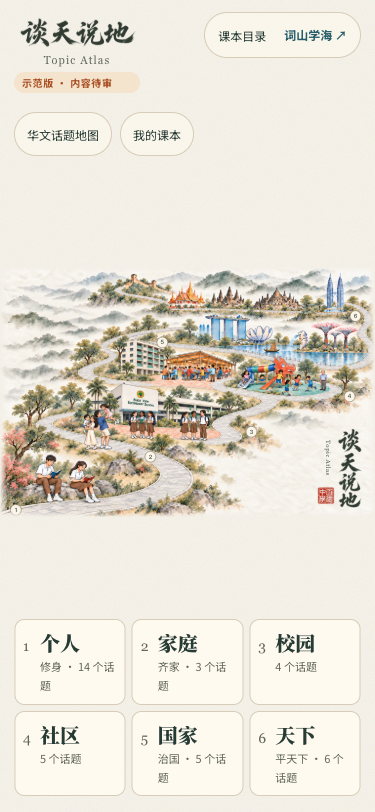
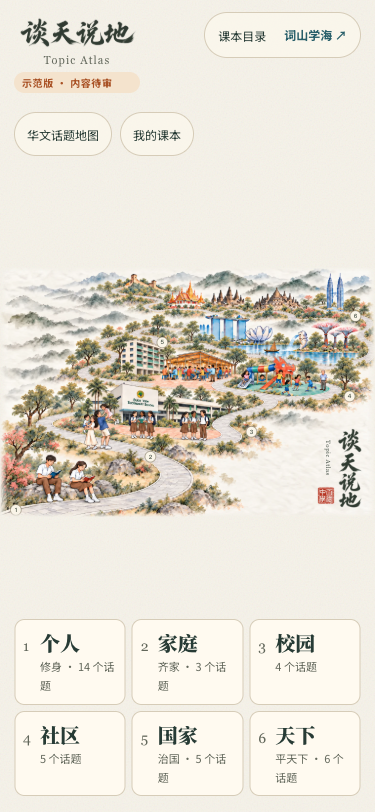
Soften background trail into natural winding curves

Changed region(s): [[0.1467, 0.3387, 0.9973, 0.585], [0.4107, 0.4618, 0.44, 0.4926]]

diff --git a/js/app.js b/js/app.js
@@ -64,7 +64,7 @@ function atlasScene(r,i){
 }
 function atlasMap(){
   return '<div class="atlas-stage"><div class="mapbox atlas-map"><svg viewBox="0 0 1536 1024" role="group" aria-label="话题地图">'+
-   '<image href="assets/atlas/watercolor-map-v40.webp" width="1536" height="1024" aria-hidden="true"/>'+
+   '<image href="assets/atlas/watercolor-map-v41.webp" width="1536" height="1024" aria-hidden="true"/>'+
    SCHOOL_IDENTITY+REGIONS.map(atlasScene).join("")+ATLAS_BRANDING+'</svg></div></div>'+
    '<nav class="atlas-regions" aria-label="话题地图">'+REGIONS.map(function(r,i){
     return '<button data-reg="'+r.id+'" class="atlas-region'+(regionMine(r.id)?' mine':'')+'"><span class="atlas-index" aria-hidden="true">'+(i+1)+'</span><span><b>'+atlasName(r)+'</b><span class="atlas-meta">'+(r.motto?esc(r.motto)+' · ':'')+countR(r.id)+' 个话题</span></span>'+(regionMine(r.id)?'<span class="atlas-mine">我的课本</span>':'')+'</button>';

diff --git a/docs/20261030_Codex_winding-path_handoff.md b/docs/20261030_Codex_winding-path_handoff.md
@@ -1,0 +1,14 @@
+# Natural background trail
+
+Updated October 30, 2026 by HOD/MTL Mdm Chun Kai Xin
+
+Owner approved v40 and requested a more natural winding path in the background, particularly the straight stretches around the ancient landmarks.
+
+Built-in imagegen edits v40. The far trail in front of the Thai temple, Angkor Wat and Borobudur should meander around small uneven terraces. The long middle-distance walkway should use shallow S-curves. Preserve a continuous route, diminishing path width with distance, local ground materials and all approved scenes, people and reader expressions.
+
+Exact prompt:
+
+> Precise localized landscape-path edit of approved watercolor atlas, same 1536x1024. User asks for more natural winding path in BACKGROUND, especially the too-straight stretches around ancient relics. Edit ONLY distant trail geometry in upper third and middle-distance connecting walkway. Replace long ruler-straight horizontal strip in front of Thai temple, Angkor Wat and Borobudur (roughly x650-1310 y165-200) with an organically meandering narrow trail that gently bends forward and back around uneven small landscape terraces, varies elevation and width subtly, partly disappears into wispy mist and reappears. Soften the long straight diagonal walkway behind HDB/hawker and before Marina Bay (roughly x560-1270 y280-365) into relaxed shallow S-curves responding to landscape. Keep connected route from foreground through school/community/nation/world to Great Wall, no branching, no doubled parallel roads or geometric straight causeways. Preserve far trail tapering with distance, plausible local paving and water edges. Keep landmark bases architecturally plausible and buildings perfectly upright and in their existing positions; curves go around structures, no distorted temple architecture. Sparse irregular planting and wispy mist can soften joins, no uniform flower borders. Preserve all approved foreground paths and EVERY human face, uniform, pose, varied skin color, neutral boy reader and subtle-smile girl reader; preserve lower school facade/crest/name, HDB beside hawker, playground, all national landmarks and relic identity, colors, exposed watercolor paper, painting composition. Do not add new people/buildings/text. Change only background path flow, retain illustration style and dimensions.
+
+
+Saved production asset: `assets/atlas/watercolor-map-v41.webp`. Previous v40 remains preserved. `js/app.js` points at v41. Visual inspection confirms winding background sections and preserved foreground readers, lower school, HDB and landmark positions. Image dimensions remain 1536x1024. Desktop and phone screenshots are refreshed in the existing PR #2.

diff --git a/CLAUDE.md b/CLAUDE.md
@@ -133,3 +133,6 @@ The lower school behind six students now follows the owner's actual building pho
 
 
 Foreground reader expression refinement, October 30 2026: owner approved the page and requested less identical smiles. Built-in imagegen v40 gives the boy a neutral absorbed reading expression and the girl a small relaxed smile. Production asset is `assets/atlas/watercolor-map-v40.webp`; v39 is preserved. Exact prompt and handoff: `docs/20261030_Codex_reader-expressions_handoff.md`. Existing PR #2 receives the refinement.
+
+
+Background trail refinement, October 30 2026: owner approved v40 and requested more natural winding paths near the distant relics. Built-in imagegen v41 softens the temple-front strip and the middle-distance approach to the waterfront into irregular curves. Production asset: `assets/atlas/watercolor-map-v41.webp`, with v40 preserved. Keep the approved school/HDB identity, varied school skin tones and distinct reader expressions. Prompt, provenance and checks: `docs/20261030_Codex_winding-path_handoff.md`. Existing PR #2 receives this refinement.
